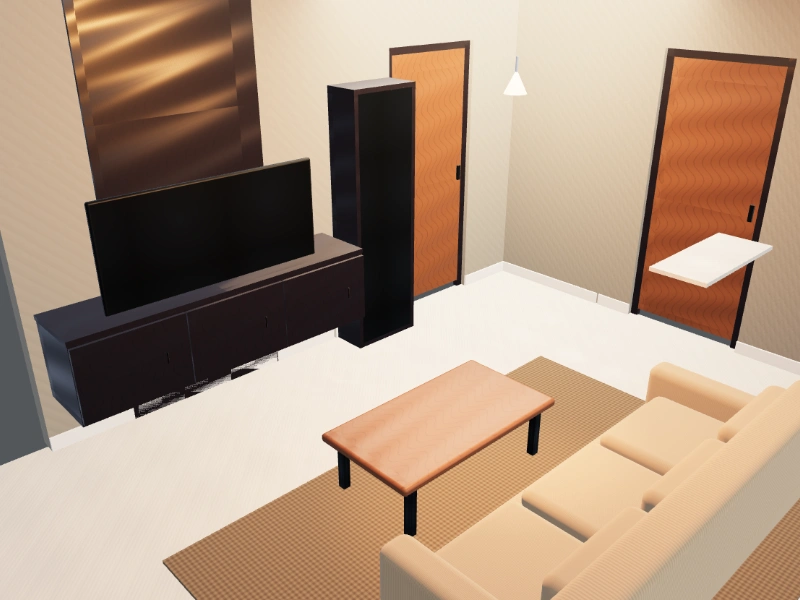
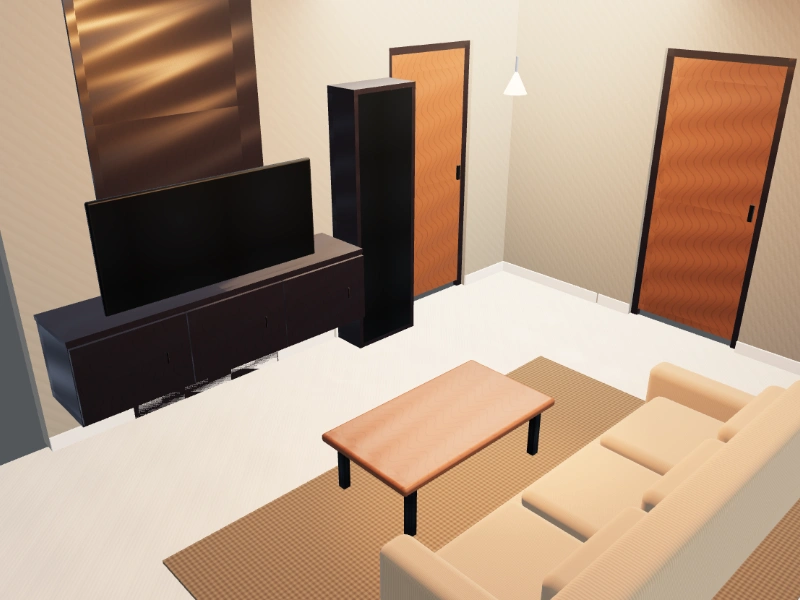
fix(apartment): run countertops land on their cabinets in off-centre rooms
The run workflow assumes a room centred on the origin, so every apartment
kitchen top (and a stray top on the 2 BHK study shelf) was drawn 1-2 m
from its cabinets. Shift cabinets into the room-centred frame and the tops
back out, and never put a worktop on a cabinet taller than 1200 mm (the
3 BHK corner wardrobe got one at 2200 mm). Move the 3 BHK living still
camera so the centre pendant no longer sits on the niche top, and
regenerate the 2 BHK and 3 BHK stills.

Changed region(s): [[0.8125, 0.39, 0.9688, 0.48]]

diff --git a/src/domain/livingRoom/cabinetSceneRunExtras.ts b/src/domain/livingRoom/cabinetSceneRunExtras.ts
@@ -1,5 +1,5 @@
 import { createCabinetPlanningWorkflow, type CountertopSegment } from "../cabinetRuns";
-import { cabinetProjectFromInteriorProject } from "../interiorProject";
+import { cabinetProjectFromInteriorProject, roomPlanViewBounds } from "../interiorProject";
 import type { InteriorProject } from "../interiorProject";
 import { LIVING_ROOM_MATERIAL_IDS } from "./materials";
 import { materialIdForCabinetRole } from "./cabinetSceneRoles";
@@ -44,21 +44,38 @@ export function countertopBoxSizeMm(segment: CountertopSegment) {
   return { width: alongX, height: segment.thicknessMm, depth: alongZ };
 }
 
-/** Run countertops — never authored through tall cabinets. */
+/** Worktops sit on base-height cabinets; a taller host (corner wardrobe) never gets one. */
+const COUNTERTOP_HOST_MAX_HEIGHT_MM = 1200;
+
+/**
+ * Run countertops — never authored through tall cabinets. The cabinet run
+ * workflow works in the classic room-centred frame, so cabinets are moved
+ * into it (minus the room's plan centre) and the tops moved back out; an
+ * apartment room that is not centred on the origin otherwise gets its tops
+ * clamped into the wrong place.
+ */
 export function compileCabinetRunExtras(project: InteriorProject): CompiledSceneNode[] {
   const visible = sceneVisibleObjects(project);
   const cabinets = visible.filter((object) => object.kind === "cabinet");
   if (cabinets.length === 0) return [];
-  const compatible = cabinetProjectFromInteriorProject({ ...project, objects: visible });
   const room = project.rooms.find((item) => item.id === project.activeRoomId)
     ?? project.rooms[0];
   if (!room) return [];
+  const bounds = roomPlanViewBounds(project, room.id);
+  const centre = { x: bounds.centerX, z: bounds.centerZ };
+  const centred = visible.map((object) => ({
+    ...object,
+    position: { ...object.position, x: object.position.x - centre.x, z: object.position.z - centre.z },
+  }));
+  const compatible = cabinetProjectFromInteriorProject({ ...project, objects: centred });
   const workflow = createCabinetPlanningWorkflow(compatible.project, {
     widthMm: room.dimensions.widthMm,
     depthMm: room.dimensions.depthMm,
     heightMm: room.dimensions.heightMm,
   });
-  return workflow.countertops.map((segment) => {
+  const isLowHost = (id: string) =>
+    (cabinets.find((object) => object.id === id)?.dimensions.heightMm ?? 0) <= COUNTERTOP_HOST_MAX_HEIGHT_MM;
+  return workflow.countertops.filter((segment) => segment.cabinetIds.every(isLowHost)).map((segment) => {
     const host = cabinets.find((object) => object.id === segment.cabinetIds[0]);
     const materialId = host
       ? materialIdForCabinetRole(host, "countertop")
@@ -67,7 +84,7 @@ export function compileCabinetRunExtras(project: InteriorProject): CompiledScene
       `countertop-node:${segment.id}`,
       "Countertop",
       "countertop-v1",
-      { x: segment.positionX, y: segment.positionY, z: segment.positionZ },
+      { x: segment.positionX + centre.x, y: segment.positionY, z: segment.positionZ + centre.z },
       boxPrimitive(segment.id, countertopBoxSizeMm(segment), { x: 0, y: segment.thicknessMm / 2, z: 0 }, materialId),
       {
         role: "countertop",

diff --git a/src/domain/apartmentTemplates/templateCountertops.test.ts b/src/domain/apartmentTemplates/templateCountertops.test.ts
@@ -1,0 +1,33 @@
+import { describe, expect, it } from "vitest";
+import { compileCabinetRunExtras } from "../livingRoom/cabinetSceneRunExtras";
+import { COMPOSER_TEST_NOW } from "./composers/bareRoom";
+import { objectBox } from "./composers/objectBounds";
+import { APARTMENT_TEMPLATE_IDS, composeApartment, lookupApartmentTemplate } from "./index";
+
+const built = APARTMENT_TEMPLATE_IDS.map((id) => ({
+  id,
+  project: composeApartment(lookupApartmentTemplate(id)!, { now: COMPOSER_TEST_NOW }),
+}));
+
+describe("apartment run countertops sit on their cabinets", () => {
+  it.each(built.map((entry) => [entry.id, entry] as const))("%s", (_id, { project }) => {
+    let tops = 0;
+    for (const room of project.rooms) {
+      for (const node of compileCabinetRunExtras({ ...project, activeRoomId: room.id })) {
+        tops += 1;
+        const hosts = project.objects.filter((object) => String(node.metadata.cabinetIds).split(",").includes(object.id));
+        expect(hosts.length, node.id).toBeGreaterThan(0);
+        const boxes = hosts.map(objectBox);
+        const label = `${room.name} ${node.id}`;
+        // Off-centre rooms used to get their tops clamped into a room centred on the origin.
+        expect(node.positionMm.x, label).toBeGreaterThanOrEqual(Math.min(...boxes.map((box) => box.minX)));
+        expect(node.positionMm.x, label).toBeLessThanOrEqual(Math.max(...boxes.map((box) => box.maxX)));
+        expect(node.positionMm.z, label).toBeGreaterThanOrEqual(Math.min(...boxes.map((box) => box.minZ)));
+        expect(node.positionMm.z, label).toBeLessThanOrEqual(Math.max(...boxes.map((box) => box.maxZ)));
+        // Worktops only on base-height cabinets (never on a corner wardrobe).
+        for (const host of hosts) expect(host.dimensions.heightMm, label).toBeLessThanOrEqual(1200);
+      }
+    }
+    expect(tops).toBeGreaterThan(0);
+  });
+});

diff --git a/src/domain/apartmentTemplates/specs/threeBhkRoomsA.ts b/src/domain/apartmentTemplates/specs/threeBhkRoomsA.ts
@@ -40,7 +40,8 @@ export const THREE_BHK_ROOMS_A: readonly ApartmentRoomSpec[] = [
     },
     camera: {
       // Wide, high three-quarter view from the far corner: the tour's opening shot and the card still.
-      eyeMm: { x: -6100, y: 2450, z: -900 },
+      // Eye at z −100 (not −900) so the centre pendant reads against the fluted wall, not on the niche top.
+      eyeMm: { x: -6100, y: 2450, z: -100 },
       targetMm: { x: -1200, y: 800, z: 2100 },
     },
   },
